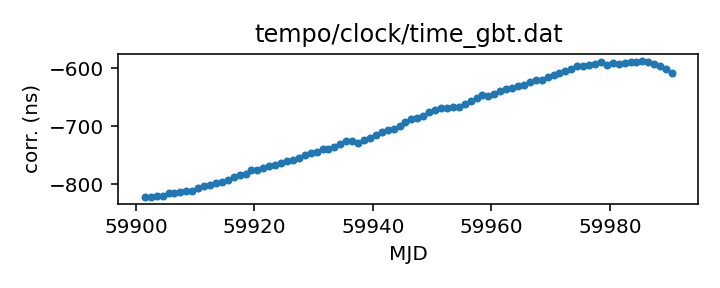
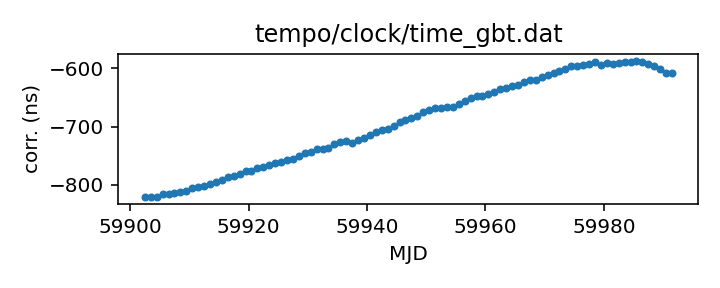
Routine gh-pages update from Github action Fri Feb 17 20:30:32 UTC 2023

diff --git a/status.md b/status.md
@@ -13,17 +13,17 @@ name of each clock file links to a page with more details.
 
 | Name | File | Corrections start | Corrections end | Last check date | Last check result 
 |:--- |:--- | --- | --- | --- |:--- 
-| [GPS to UTC](T2runtime/clock/gps2utc.clk.html) | `T2runtime/clock/gps2utc.clk` | 1993-01-01 MJD 48988.0 | 2023-01-30 MJD 59974.0 | 2023-02-16 | Unchanged 
-| [GPS to UTC (Combined Clock)](T2runtime/clock/gps2utc_cc.clk.html) | `T2runtime/clock/gps2utc_cc.clk` | 1993-01-01 MJD 48988.0 | 2023-01-30 MJD 59974.0 | 2023-02-16 | Unchanged 
-| [GPS to UTC (Corrected)](T2runtime/clock/gps2utc_c0p.clk.html) | `T2runtime/clock/gps2utc_c0p.clk` | 2010-12-29 MJD 55559.0 | 2023-01-30 MJD 59974.0 | 2023-02-16 | Unchanged 
-| [GBT](tempo/clock/time_gbt.dat.html) | `tempo/clock/time_gbt.dat` | 2000-12-31 MJD 51909.5 | 2023-02-15 MJD 59990.5 | 2023-02-16 | Updated 
-| [GBT (TEMPO2 converted from TEMPO)](T2runtime/clock/gbt2gps.clk.html) | `T2runtime/clock/gbt2gps.clk` | 2000-12-31 MJD 51909.5 | 2023-02-15 MJD 59990.5 | 2023-02-16 | Updated 
+| [GPS to UTC](T2runtime/clock/gps2utc.clk.html) | `T2runtime/clock/gps2utc.clk` | 1993-01-01 MJD 48988.0 | 2023-01-30 MJD 59974.0 | 2023-02-17 | Unchanged 
+| [GPS to UTC (Combined Clock)](T2runtime/clock/gps2utc_cc.clk.html) | `T2runtime/clock/gps2utc_cc.clk` | 1993-01-01 MJD 48988.0 | 2023-01-30 MJD 59974.0 | 2023-02-17 | Unchanged 
+| [GPS to UTC (Corrected)](T2runtime/clock/gps2utc_c0p.clk.html) | `T2runtime/clock/gps2utc_c0p.clk` | 2010-12-29 MJD 55559.0 | 2023-01-30 MJD 59974.0 | 2023-02-17 | Unchanged 
+| [GBT](tempo/clock/time_gbt.dat.html) | `tempo/clock/time_gbt.dat` | 2000-12-31 MJD 51909.5 | 2023-02-16 MJD 59991.5 | 2023-02-17 | Updated 
+| [GBT (TEMPO2 converted from TEMPO)](T2runtime/clock/gbt2gps.clk.html) | `T2runtime/clock/gbt2gps.clk` | 2000-12-31 MJD 51909.5 | 2023-02-16 MJD 59991.5 | 2023-02-17 | Updated 
 | [Jodrell Bank](T2runtime/clock/jb2gps.clk.html) | `T2runtime/clock/jb2gps.clk` | 2006-10-13 MJD 54021.4 | 2021-11-03 MJD 59521.0 | 2023-02-15 | Unchanged 
 | [Jodrell Bank Roach](T2runtime/clock/jbroach2jb.clk.html) | `T2runtime/clock/jbroach2jb.clk` | 2006-10-13 MJD 54021.4 | 2018-03-20 MJD 58197.6 | 2023-02-15 | Unchanged 
 | [Jodrell Bank DFB](T2runtime/clock/jbdfb2jb.clk.html) | `T2runtime/clock/jbdfb2jb.clk` | 2006-10-13 MJD 54021.4 | 2017-05-11 MJD 57884.0 | 2023-02-15 | Unchanged 
 | [Meerkat (observatory)](T2runtime/clock/mk2utc_observatory.clk.html) | `T2runtime/clock/mk2utc_observatory.clk` | 2019-01-01 MJD 58484.0 | 2023-01-26 MJD 59971.0 | 2023-02-13 | Unchanged 
-| [Leap seconds](tempo/clock/leap.sec.html) | `tempo/clock/leap.sec` | 1972-07-01 MJD 41499.0 | 2017-01-01 MJD 57754.0 | 2023-02-16 | Unchanged 
-| [UT1 table](tempo/clock/ut1.dat.html) | `tempo/clock/ut1.dat` | 1973-01-02 MJD 41684.0 | 2024-02-24 MJD 60364.0 | 2023-02-16 | Updated 
+| [Leap seconds](tempo/clock/leap.sec.html) | `tempo/clock/leap.sec` | 1972-07-01 MJD 41499.0 | 2017-01-01 MJD 57754.0 | 2023-02-17 | Unchanged 
+| [UT1 table](tempo/clock/ut1.dat.html) | `tempo/clock/ut1.dat` | 1973-01-02 MJD 41684.0 | 2024-02-24 MJD 60364.0 | 2023-02-17 | Unchanged 
 
 
 
@@ -78,7 +78,7 @@ name of each clock file links to a page with more details.
 | [SRT](T2runtime/clock/srt2gps.clk.html) | `T2runtime/clock/srt2gps.clk` | 2013-03-20 MJD 56371.0 | 2019-12-11 MJD 58828.0 | 2023-02-15 | Unchanged 
 | [Effelsberg](T2runtime/clock/eff2gps.clk.html) | `T2runtime/clock/eff2gps.clk` | 1993-11-29 MJD 49320.0 | 2015-06-22 MJD 57195.5 | 2023-02-15 | Unchanged 
 | [Effelsberg Asterix/PSRix](T2runtime/clock/effix2gps.clk.html) | `T2runtime/clock/effix2gps.clk` | 2011-01-01 MJD 55562.5 | 2021-03-21 MJD 59294.5 | 2023-02-15 | Unchanged 
-| [LEAP](T2runtime/clock/leap2effix.clk.html) | `T2runtime/clock/leap2effix.clk` | 2012-10-29 MJD 56230.0 | 2014-03-04 MJD 56720.0 | 2023-02-10 | Unchanged 
+| [LEAP](T2runtime/clock/leap2effix.clk.html) | `T2runtime/clock/leap2effix.clk` | 2012-10-29 MJD 56230.0 | 2014-03-04 MJD 56720.0 | 2023-02-17 | Unchanged 
 | [NUPPI](tempo/clock/time_nuppi.dat.html) | `tempo/clock/time_nuppi.dat` | 2005-03-07 MJD 53436.0 | 2015-11-08 MJD 57334.6 | 2023-02-16 | Unchanged 
 | [Meerkat (TEMPO2)](T2runtime/clock/mk2utc.clk.html) | `T2runtime/clock/mk2utc.clk` | 2019-01-01 MJD 58484.0 | 2021-02-22 MJD 59268.0 | 2023-02-15 | Unchanged 
 | [MOST](T2runtime/clock/mo2gps.clk.html) | `T2runtime/clock/mo2gps.clk` | 2003-12-27 MJD 53000.0 | 2018-09-06 MJD 58367.0 | 2023-02-15 | Unchanged 

diff --git a/T2runtime/clock/gbt2gps.clk.md b/T2runtime/clock/gbt2gps.clk.md
@@ -23,14 +23,13 @@ If questions arise about the conversion, contact Anne Archibald
 | Format | tempo2 |
 | Bogus last correction | False |
 | Clock file start | 2000-12-31 MJD 51909.5 |
-| Clock file end | 2023-02-15 MJD 59990.5 |
+| Clock file end | 2023-02-16 MJD 59991.5 |
 | Update interval (days) | 1 |
-| Last update attempt | 2023-02-16 |
+| Last update attempt | 2023-02-17 |
 | Last update result | Updated |
 
 Log entries from the last few update attempts:
 ```
-2023-02-07 20:29:11.542 - Updated
 2023-02-08 20:29:36.838 - Updated
 2023-02-09 20:29:57.139 - Updated
 2023-02-10 20:29:37.733 - Updated
@@ -40,12 +39,13 @@ Log entries from the last few update attempts:
 2023-02-14 20:29:41.903 - Updated
 2023-02-15 20:29:54.255 - Updated
 2023-02-16 20:29:15.867 - Updated
+2023-02-17 20:29:50.426 - Updated
 ```
 [Full log](https://raw.githubusercontent.com/ipta/pulsar-clock-corrections/main/log/T2runtime/clock/gbt2gps.clk.log)
 
 Leading comments from clock file:
 
-    # This file was automatically converted from tempo/clock/time_gbt.dat on 2023-02-16 20:29:15.799
+    # This file was automatically converted from tempo/clock/time_gbt.dat on 2023-02-17 20:29:50.338
 
 
 

diff --git a/tempo/clock/time_gbt.dat.md b/tempo/clock/time_gbt.dat.md
@@ -18,14 +18,13 @@ If questions arise, contact Ryan S. Lynch <rlynch@nrao.edu>.
 | Format | tempo |
 | Bogus last correction | False |
 | Clock file start | 2000-12-31 MJD 51909.5 |
-| Clock file end | 2023-02-15 MJD 59990.5 |
+| Clock file end | 2023-02-16 MJD 59991.5 |
 | Update interval (days) | 1 |
-| Last update attempt | 2023-02-16 |
+| Last update attempt | 2023-02-17 |
 | Last update result | Updated |
 
 Log entries from the last few update attempts:
 ```
-2023-02-07 20:29:11.472 - Updated
 2023-02-08 20:29:36.767 - Updated
 2023-02-09 20:29:57.069 - Updated
 2023-02-10 20:29:37.661 - Updated
@@ -35,6 +34,7 @@ Log entries from the last few update attempts:
 2023-02-14 20:29:41.833 - Updated
 2023-02-15 20:29:54.183 - Updated
 2023-02-16 20:29:15.797 - Updated
+2023-02-17 20:29:50.336 - Updated
 ```
 [Full log](https://raw.githubusercontent.com/ipta/pulsar-clock-corrections/main/log/tempo/clock/time_gbt.dat.log)
 

diff --git a/T2runtime/clock/gps2utc_c0p.clk.md b/T2runtime/clock/gps2utc_c0p.clk.md
@@ -30,12 +30,11 @@ about the BIPM's published corrections, contact <tai@bipm.org>.
 | Clock file start | 2010-12-29 MJD 55559.0 |
 | Clock file end | 2023-01-30 MJD 59974.0 |
 | Update interval (days) | 1 |
-| Last update attempt | 2023-02-16 |
+| Last update attempt | 2023-02-17 |
 | Last update result | Unchanged |
 
 Log entries from the last few update attempts:
 ```
-2023-02-07 20:29:10.706 - Unchanged
 2023-02-08 20:29:35.778 - Unchanged
 2023-02-09 20:29:56.162 - Unchanged
 2023-02-10 20:29:37.262 - Updated
@@ -45,6 +44,7 @@ Log entries from the last few update attempts:
 2023-02-14 20:29:41.495 - Unchanged
 2023-02-15 20:29:53.798 - Unchanged
 2023-02-16 20:29:15.443 - Unchanged
+2023-02-17 20:29:49.567 - Unchanged
 ```
 [Full log](https://raw.githubusercontent.com/ipta/pulsar-clock-corrections/main/log/T2runtime/clock/gps2utc_c0p.clk.log)
 

diff --git a/T2runtime/clock/gps2utc_cc.clk.md b/T2runtime/clock/gps2utc_cc.clk.md
@@ -29,12 +29,11 @@ about the BIPM's published corrections, contact <tai@bipm.org>.
 | Clock file start | 1993-01-01 MJD 48988.0 |
 | Clock file end | 2023-01-30 MJD 59974.0 |
 | Update interval (days) | 1 |
-| Last update attempt | 2023-02-16 |
+| Last update attempt | 2023-02-17 |
 | Last update result | Unchanged |
 
 Log entries from the last few update attempts:
 ```
-2023-02-07 20:29:10.695 - Unchanged
 2023-02-08 20:29:35.767 - Unchanged
 2023-02-09 20:29:56.151 - Unchanged
 2023-02-10 20:29:37.229 - Updated
@@ -44,6 +43,7 @@ Log entries from the last few update attempts:
 2023-02-14 20:29:41.482 - Unchanged
 2023-02-15 20:29:53.784 - Unchanged
 2023-02-16 20:29:15.431 - Unchanged
+2023-02-17 20:29:49.553 - Unchanged
 ```
 [Full log](https://raw.githubusercontent.com/ipta/pulsar-clock-corrections/main/log/T2runtime/clock/gps2utc_cc.clk.log)
 

diff --git a/T2runtime/clock/gps2utc.clk.md b/T2runtime/clock/gps2utc.clk.md
@@ -32,12 +32,11 @@ about the BIPM's published corrections, contact <tai@bipm.org>.
 | Clock file start | 1993-01-01 MJD 48988.0 |
 | Clock file end | 2023-01-30 MJD 59974.0 |
 | Update interval (days) | 1 |
-| Last update attempt | 2023-02-16 |
+| Last update attempt | 2023-02-17 |
 | Last update result | Unchanged |
 
 Log entries from the last few update attempts:
 ```
-2023-02-07 20:29:10.663 - Unchanged
 2023-02-08 20:29:35.734 - Unchanged
 2023-02-09 20:29:56.116 - Unchanged
 2023-02-10 20:29:37.146 - Updated
@@ -47,6 +46,7 @@ Log entries from the last few update attempts:
 2023-02-14 20:29:41.450 - Unchanged
 2023-02-15 20:29:53.750 - Unchanged
 2023-02-16 20:29:15.398 - Unchanged
+2023-02-17 20:29:49.510 - Unchanged
 ```
 [Full log](https://raw.githubusercontent.com/ipta/pulsar-clock-corrections/main/log/T2runtime/clock/gps2utc.clk.log)
 

diff --git a/tempo/clock/ut1.dat.md b/tempo/clock/ut1.dat.md
@@ -30,12 +30,11 @@ If there are any questions, contact Anne Archibald
 | File start | 1973-01-02 MJD 41684.0 |
 | File end | 2024-02-24 MJD 60364.0 |
 | Update interval (days) | 0 |
-| Last update attempt | 2023-02-16 |
-| Last update result | Updated |
+| Last update attempt | 2023-02-17 |
+| Last update result | Unchanged |
 
 Log entries from the last few update attempts:
 ```
-2023-02-07 20:29:21.611 - Unchanged
 2023-02-08 20:29:55.341 - Unchanged
 2023-02-09 20:30:11.626 - Updated
 2023-02-10 20:29:45.277 - Unchanged
@@ -45,5 +44,6 @@ Log entries from the last few update attempts:
 2023-02-14 20:29:49.211 - Unchanged
 2023-02-15 20:30:04.236 - Unchanged
 2023-02-16 20:29:29.284 - Updated
+2023-02-17 20:30:03.651 - Unchanged
 ```
 [Full log](https://raw.githubusercontent.com/ipta/pulsar-clock-corrections/main/log/tempo/clock/ut1.dat.log)

diff --git a/tempo/clock/leap.sec.md b/tempo/clock/leap.sec.md
@@ -21,12 +21,11 @@ If there are any questions, contact Anne Archibald
 | File start | 1972-07-01 MJD 41499.0 |
 | File end | 2017-01-01 MJD 57754.0 |
 | Update interval (days) | 0 |
-| Last update attempt | 2023-02-16 |
+| Last update attempt | 2023-02-17 |
 | Last update result | Unchanged |
 
 Log entries from the last few update attempts:
 ```
-2023-02-07 20:29:11.580 - Unchanged
 2023-02-08 20:29:44.519 - Unchanged
 2023-02-09 20:30:00.757 - Unchanged
 2023-02-10 20:29:37.934 - Unchanged
@@ -36,5 +35,6 @@ Log entries from the last few update attempts:
 2023-02-14 20:29:41.939 - Unchanged
 2023-02-15 20:29:57.114 - Unchanged
 2023-02-16 20:29:21.477 - Unchanged
+2023-02-17 20:29:50.877 - Unchanged
 ```
 [Full log](https://raw.githubusercontent.com/ipta/pulsar-clock-corrections/main/log/tempo/clock/leap.sec.log)

diff --git a/T2runtime/clock/leap2effix.clk.md b/T2runtime/clock/leap2effix.clk.md
@@ -23,7 +23,7 @@ thus here) can be expected to be somewhat up to date.
 | Clock file start | 2012-10-29 MJD 56230.0 |
 | Clock file end | 2014-03-04 MJD 56720.0 |
 | Update interval (days) | 7 |
-| Last update attempt | 2023-02-10 |
+| Last update attempt | 2023-02-17 |
 | Last update result | Unchanged |
 
 Log entries from the last few update attempts:
@@ -36,6 +36,7 @@ Log entries from the last few update attempts:
 2023-01-27 20:28:26.955 - Unchanged
 2023-02-03 20:28:51.346 - Unchanged
 2023-02-10 20:29:37.915 - Unchanged
+2023-02-17 20:29:50.847 - Unchanged
 ```
 [Full log](https://raw.githubusercontent.com/ipta/pulsar-clock-corrections/main/log/T2runtime/clock/leap2effix.clk.log)
 
